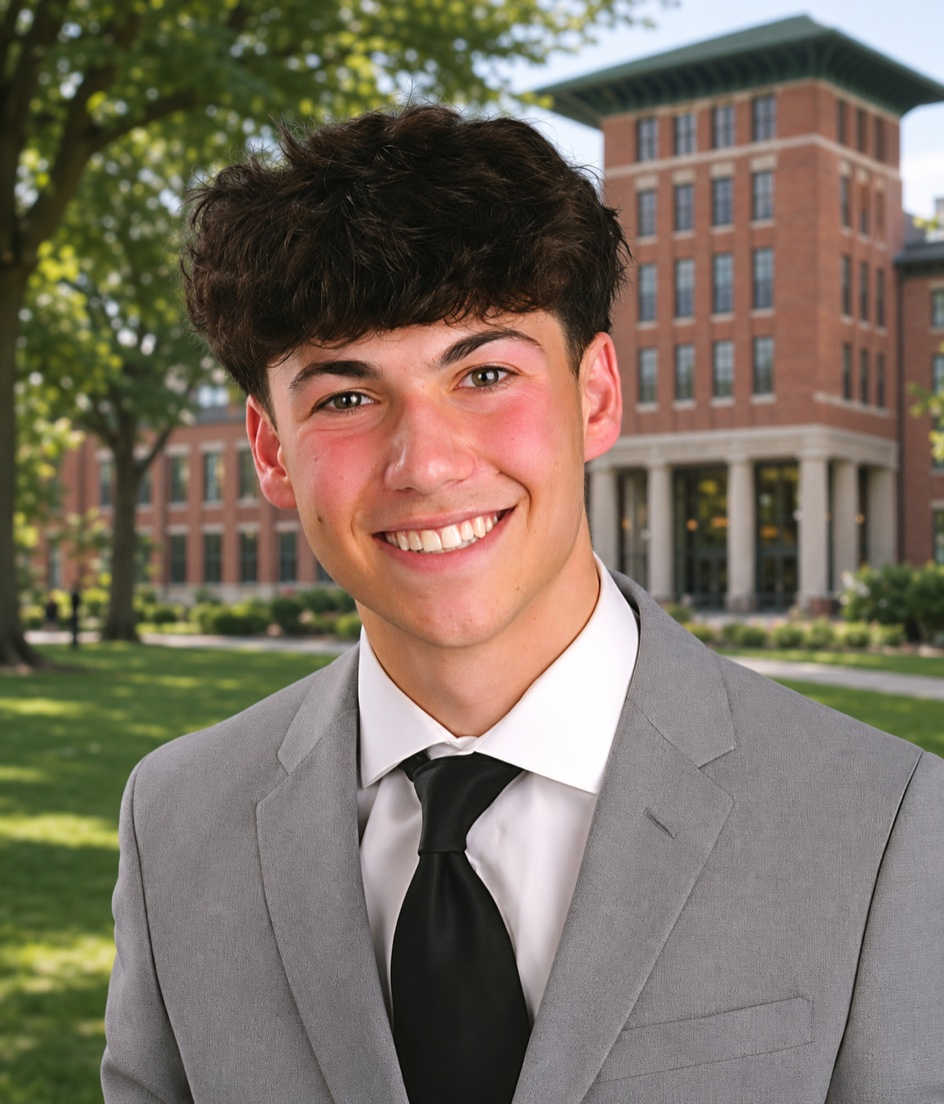
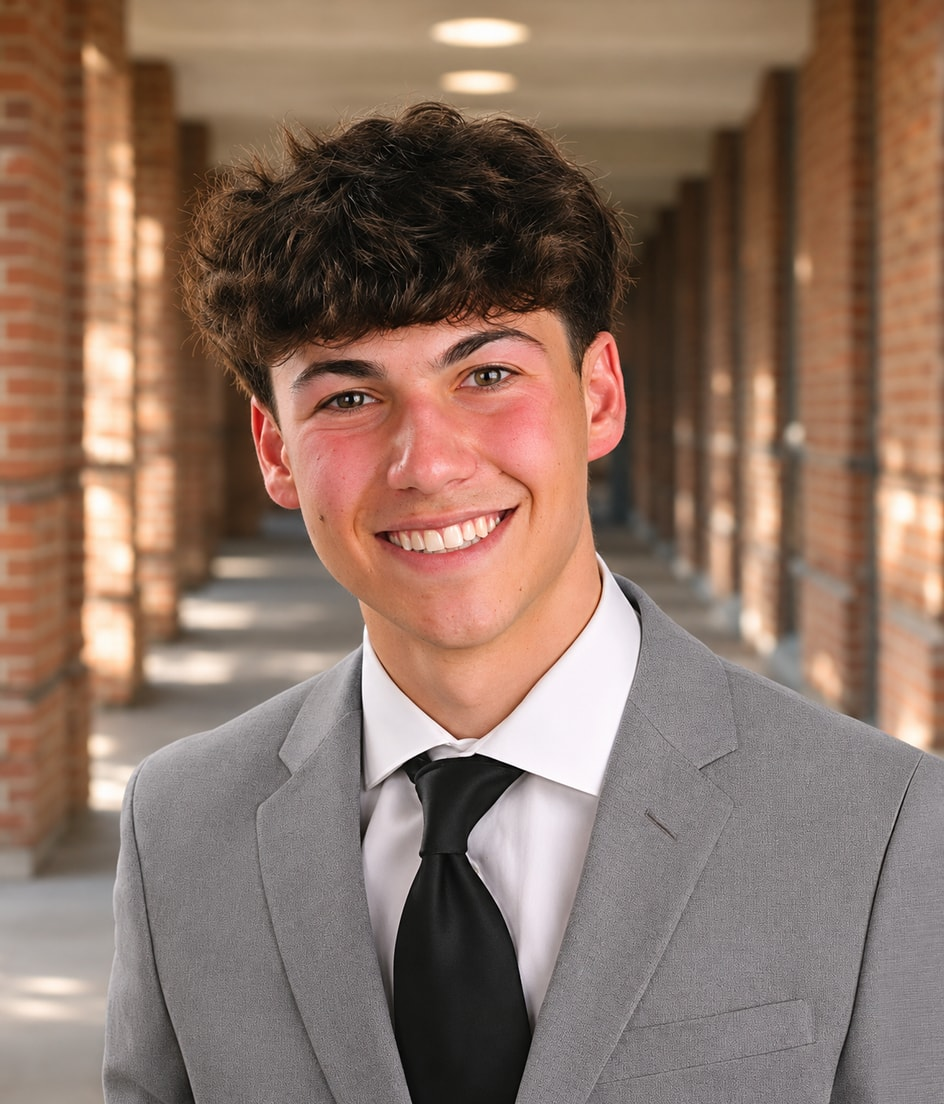
Headshot swapped for the Fisher Hall colonnade photo

diff --git a/content/site.ts b/content/site.ts
@@ -43,7 +43,7 @@ export const site = {
   resumePath: "/Brandon_Zeller_Resume.pdf",
   headshot: {
     src: "/headshot.jpg",
-    alt: "Brandon Zeller in a grey suit outside a brick campus building at Ohio State's Fisher College of Business",
+    alt: "Brandon Zeller in a grey suit in a brick colonnade at Fisher Hall, Ohio State's Fisher College of Business",
     width: 944,
     height: 1104,
   },
